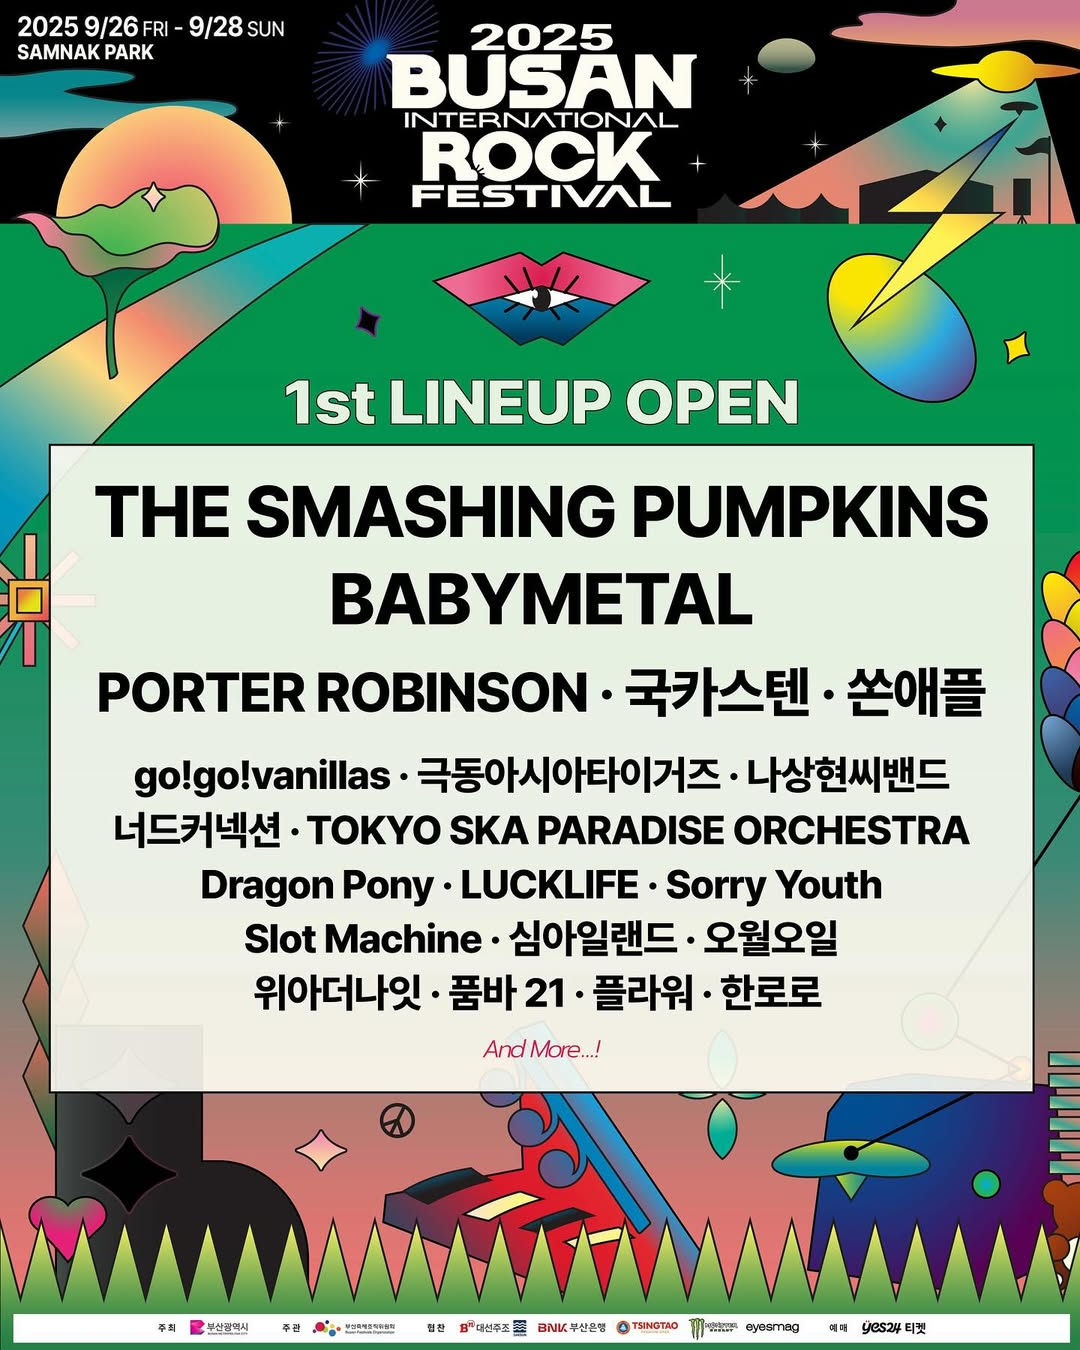
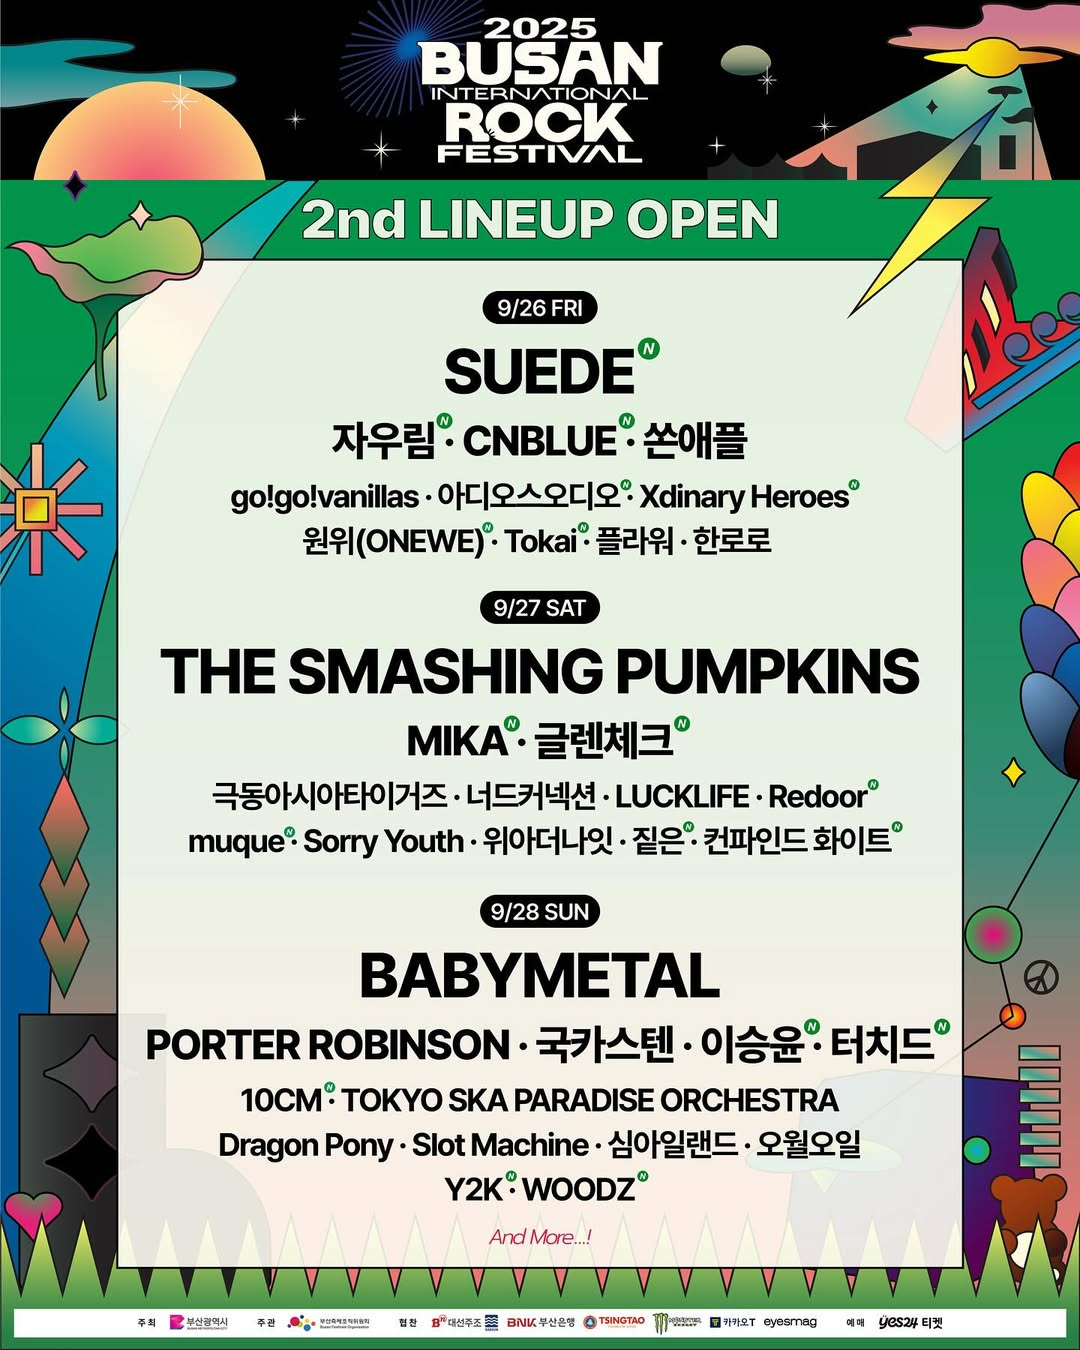
Update schedule

diff --git a/src/data/schedule.ts b/src/data/schedule.ts
@@ -3582,34 +3582,11 @@ const data_2025: Schedule[] = [
     year: 2025,
     month: 9,
     date: 26,
-    info: I.DU,
     title: "부산국제록페스티벌",
     imageA: "202509-busan-a.jpg",
     location: ["삼락생태공원"],
     setlist: [],
-    links: [I.FNotice("https://www.instagram.com/p/DJkcpmNTsJh")],
-  },
-  {
-    year: 2025,
-    month: 9,
-    date: 27,
-    info: I.DU,
-    title: "부산국제록페스티벌",
-    imageA: "202509-busan-a.jpg",
-    location: ["삼락생태공원"],
-    setlist: [],
-    links: [I.FNotice("https://www.instagram.com/p/DJkcpmNTsJh")],
-  },
-  {
-    year: 2025,
-    month: 9,
-    date: 28,
-    info: I.DU,
-    title: "부산국제록페스티벌",
-    imageA: "202509-busan-a.jpg",
-    location: ["삼락생태공원"],
-    setlist: [],
-    links: [I.FNotice("https://www.instagram.com/p/DJkcpmNTsJh")],
+    links: [I.FNotice("https://www.instagram.com/p/DLB5UPJviBV")],
   },
   {
     year: 2025,
